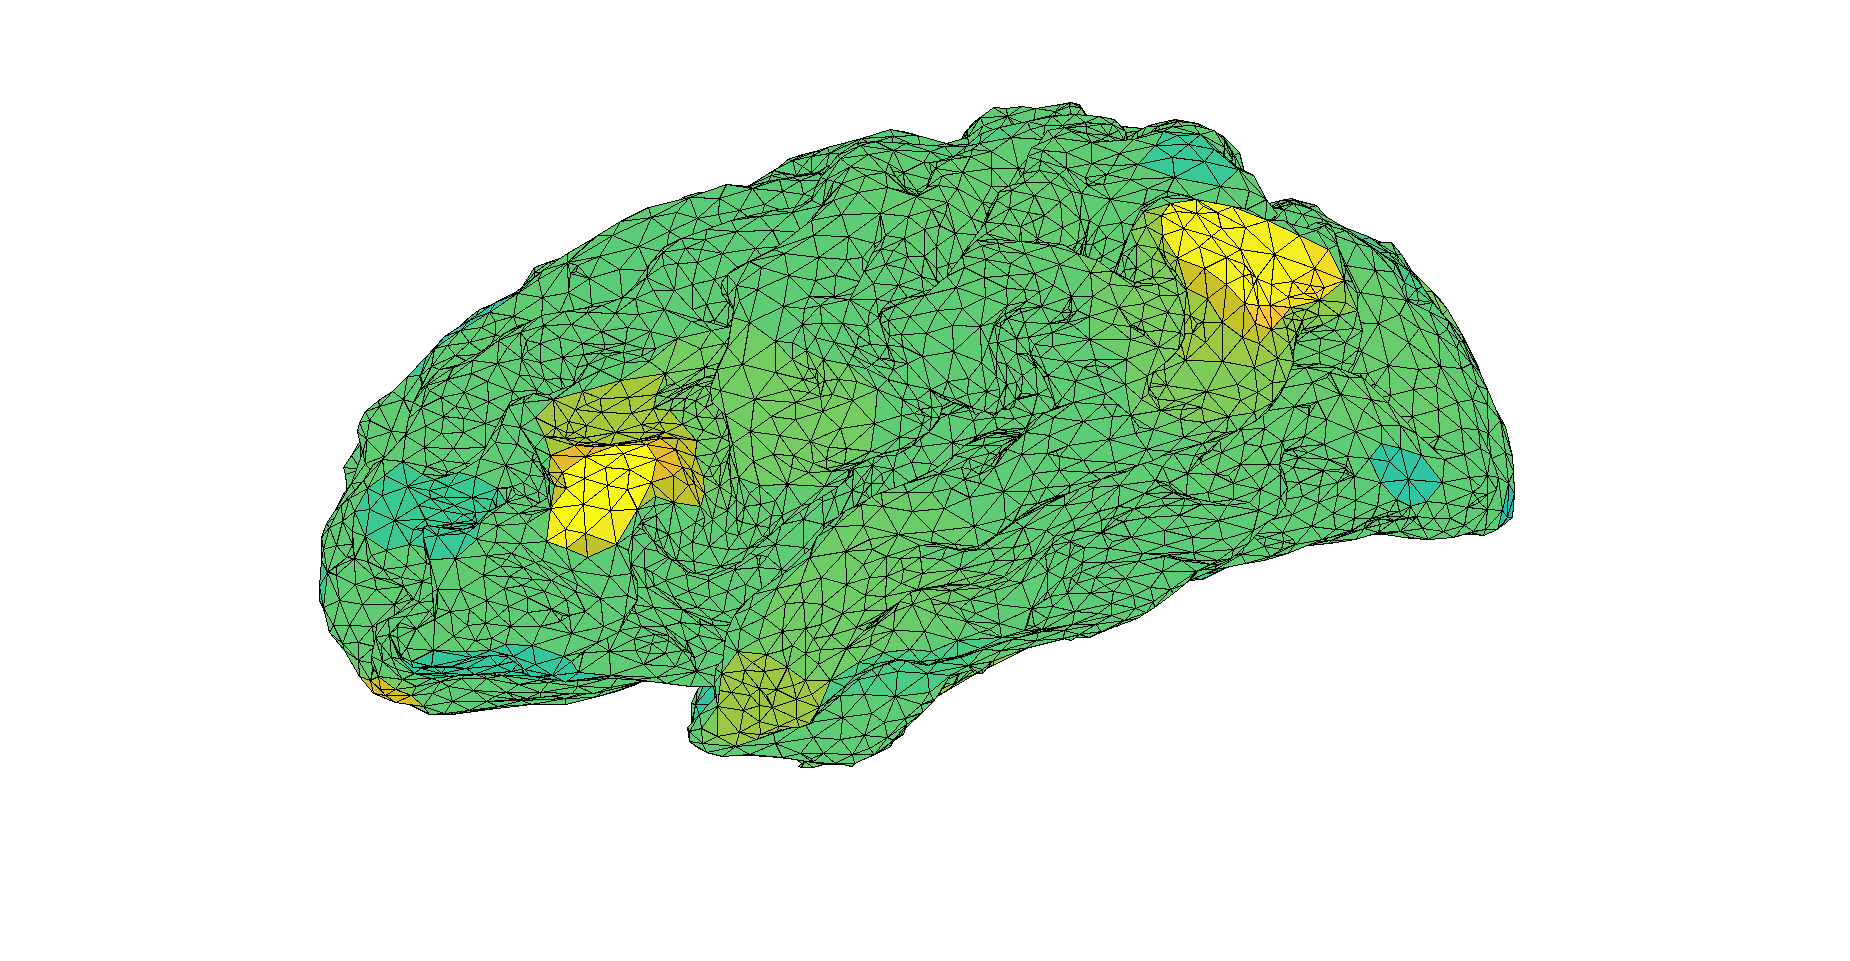
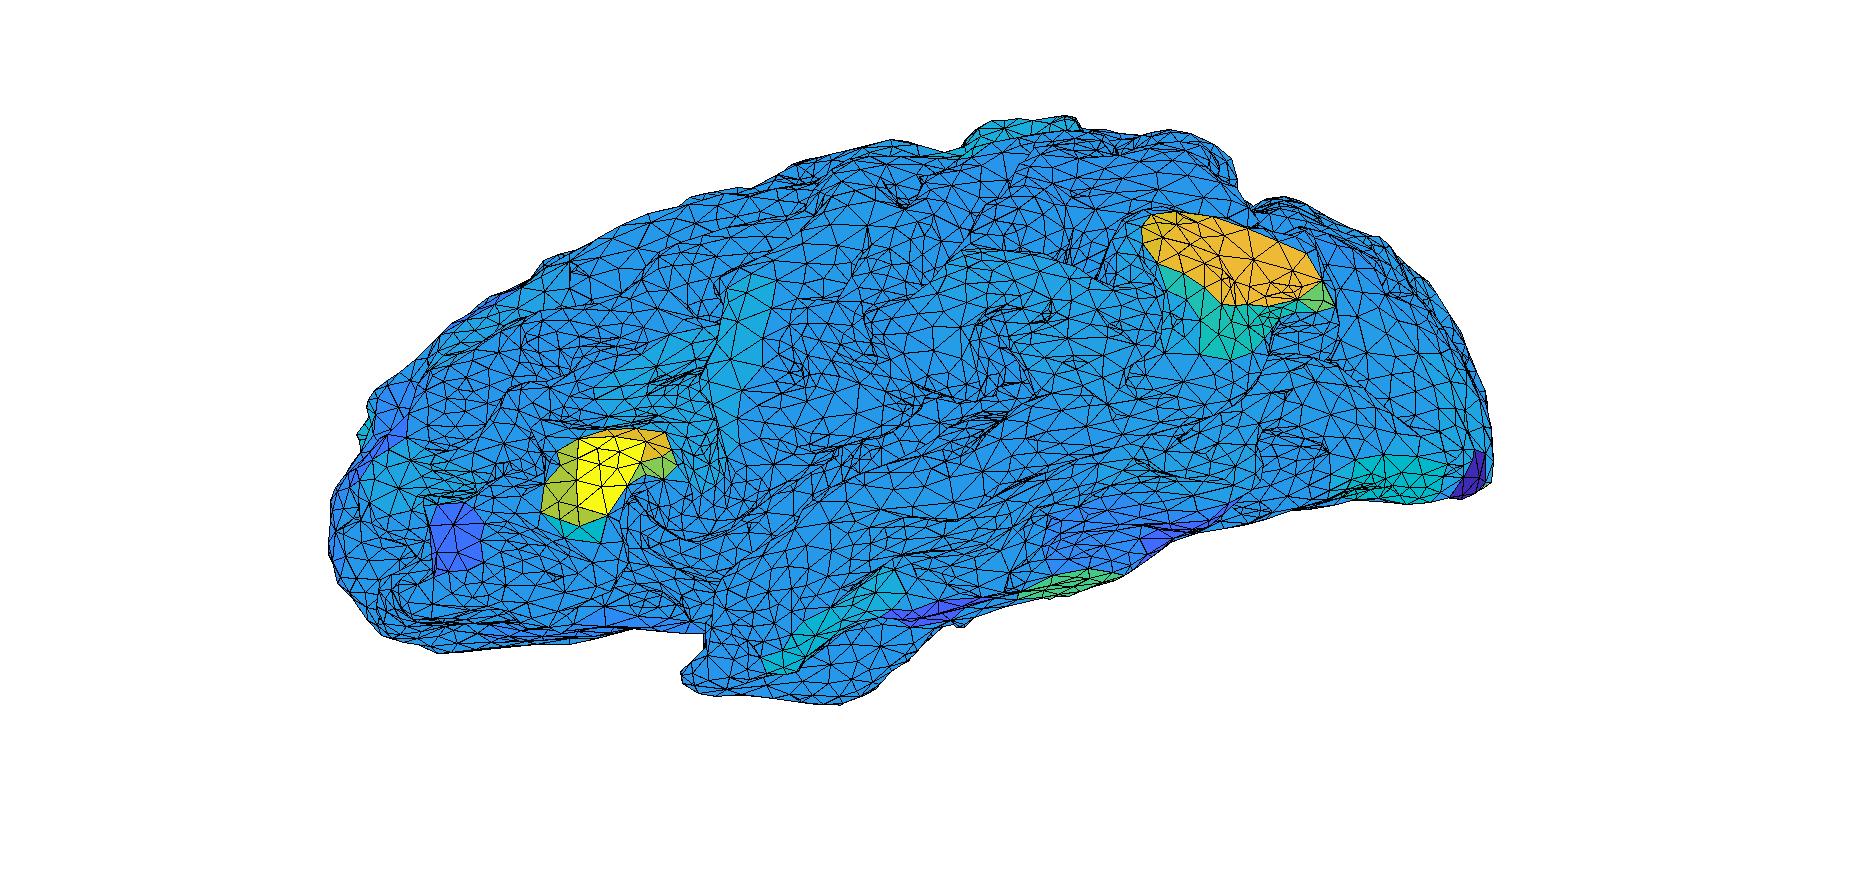
add: SISSY

Changed region(s): [[0.1541, 0.0912, 0.8319, 0.8209]]

diff --git a/src/TP2_inverse_problems.m b/src/TP2_inverse_problems.m
@@ -23,7 +23,7 @@ SNR=1;
 %generate noisy data according to given SNR
 X=Xs+1/sqrt(SNR)*Noise;
 
-%% Lambda variation
+%% MNE: Lambda variation
 lambda    = logspace(-1,3,5);
 fig_count = 1;   
 for k=1:length(lambda)
@@ -33,7 +33,7 @@ for k=1:length(lambda)
 	fig_count = fig_count + 1;
 end
 
-%% Lambda and SNR variation
+%% MNE:Lambda and SNR variation
 lambda    = logspace(0,3,4);
 SNR       = logspace(-1,1,3);
 fig_count = 1;     
@@ -46,7 +46,7 @@ for j=1:length(SNR)
         fig_count = fig_count + 1;
     end
 end
-%% L-curve criterion
+%% MNE: L-curve criterion
 SNR    = 1;
 X      = Xs+1/sqrt(SNR)*Noise;
 lambda = logspace(-10,10,200);
@@ -67,7 +67,7 @@ set(gca,'fontsize', 24);
 [~, idx_norm_s]   = min(abs(norm_s - 479.6));
 fprintf("lambda(||X-As||_2) = %d\n", lambda(idx_err_reco));
 fprintf("lambda(||s||_2) = %d\n", lambda(idx_norm_s));
-%% discrepancy principle
+%% MNE: Discrepancy principle
 SNR    = 1;
 X      = Xs+1/sqrt(SNR)*Noise;
 lambda = logspace(-10,10,200);
@@ -88,7 +88,7 @@ legend;
 set(gca,'fontsize', 24);
 
 fprintf("lambda= %d\n", 1168.5);
-%% Generalized Cross-Validation
+%% MNE: Generalized Cross-Validation
 %  code to be added in the L-curve iteration
 N      = size(G, 1);
 SNR    = 1;
@@ -111,7 +111,14 @@ set(gca,'fontsize', 24);
 [~, idx_GCV] = min(GCV);
 fprintf("lambda(GCV) = %d\n", lambda(idx_GCV));
 
-%% SISSY
+%% MNE: Final choice
+SNR    = 1;
+X      = Xs+1/sqrt(SNR)*Noise;
+lambda = 114.895;
+Shat   = MNE(X(:,id),G,lambda);
+figure; trisurf(mesh.f,mesh.v(:,1),mesh.v(:,2),mesh.v(:,3),Shat); axis off;
+
+%% SISSY: Lambda variation
 SNR    = 10;
 X      = Xs+1/sqrt(SNR)*Noise;
 T      = variation_operator(mesh,'face');
@@ -125,3 +132,49 @@ for k=1:length(lambda)
     figure; trisurf(mesh.f,mesh.v(:,1),mesh.v(:,2),mesh.v(:,3),Shat); axis off;
 	fig_count = fig_count + 1;
 end
+
+%% SISSY: Alpha variation
+SNR    = 10;
+X      = Xs+1/sqrt(SNR)*Noise;
+T      = variation_operator(mesh,'face');
+lambda = 10;
+Niter = 60;
+alpha = linspace(0, 1, 6);
+fig_count = 1;
+for k=1:length(alpha)
+    fprintf("Figure=%d, Alpha=%d\n", fig_count, alpha(k))
+    Shat=SISSY(X(:,id),G,T,lambda, alpha(k), Niter);
+    figure; trisurf(mesh.f,mesh.v(:,1),mesh.v(:,2),mesh.v(:,3),Shat); axis off;
+	fig_count = fig_count + 1;
+end
+
+%% SISSY: L0 restriction criterion
+SNR    = 10;
+X      = Xs+1/sqrt(SNR)*Noise;
+T      = variation_operator(mesh,'face');
+alpha = 0.2;
+Niter = 60;
+lambda = logspace(-5,5,100);
+for k=1:length(lambda)
+    Shat=SISSY(X(:,id),G,T,lambda(k), alpha, Niter);
+    norm_L0_Ts  = sum(T*Shat > 0.01*max(T*Shat));
+    norm_L0_s   = sum(Shat > 0.01*max(Shat));
+    L0_restriction(k) = norm_L0_Ts + alpha*norm_L0_s;
+end
+
+figure; loglog(lambda, L0_restriction);
+title("SISSY: L0 restriction criterion");
+ylabel("||Ts||_0 + \alpha||s||_0");
+xlabel("lambda");
+grid();
+set(gca,'fontsize', 24);
+
+%% SISSY: Final choice
+SNR    = 10;
+X      = Xs+1/sqrt(SNR)*Noise;
+T      = variation_operator(mesh,'face');
+lambda = 5.67243;
+alpha  = 0.2;
+Niter  = 60;
+Shat=SISSY(X(:,id),G,T,lambda, alpha, Niter);
+figure; trisurf(mesh.f,mesh.v(:,1),mesh.v(:,2),mesh.v(:,3),Shat); axis off;
